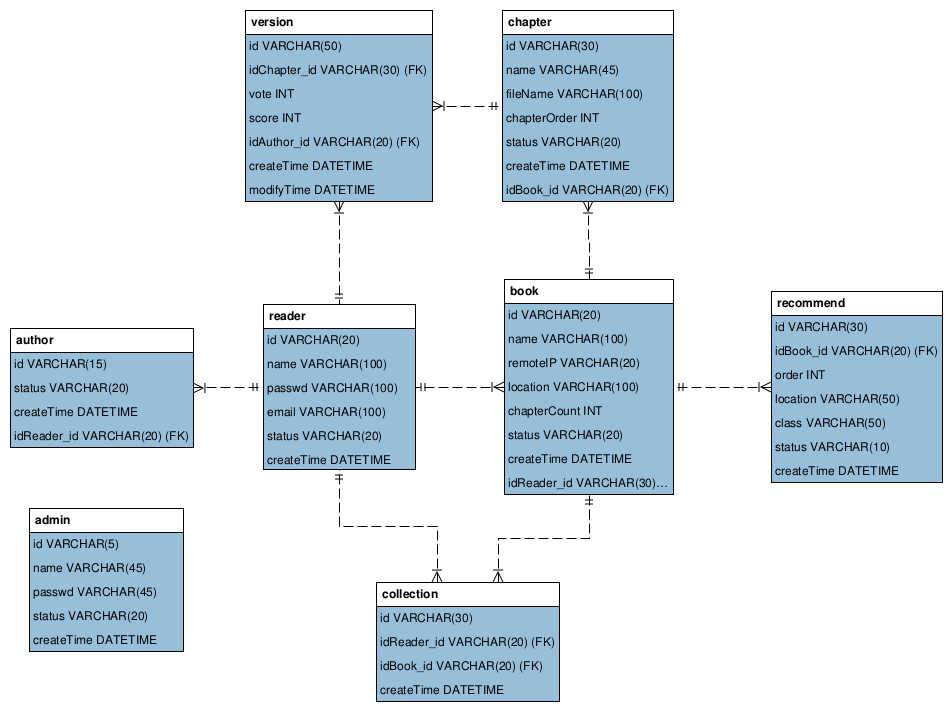
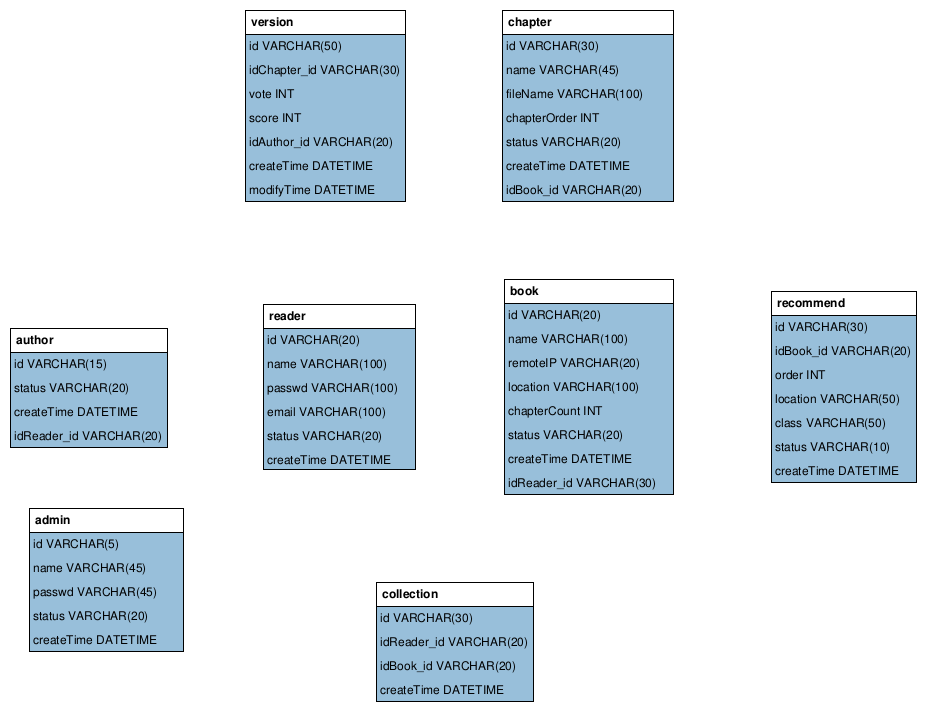
Delete foreign keys of database

diff --git a/doc/ganttChart.html b/doc/ganttChart.html
@@ -118,7 +118,7 @@
       Readers collect books and delete collections    :done,    dev2Ph5,  2017-10-09,     1d
       Author and Administrator manages books          :done,    dev2Ph6,  after dev2Ph5,  2d
       Reader modify userName and password             :done,    dev2Ph7,  after dev2Ph5,  1d
-      Delete foreign keys of database                 :active,  dev2Ph8,  after dev2Ph7,  1d
+      Delete foreign keys of database                 :done,    dev2Ph8,  after dev2Ph7,  1d
       Readers vote for a chapter of one version       :active,  dev2Ph9,  after dev2Ph7,  1d
       Administrator manages readers and authors       :active,  dev2Ph10, after dev2Ph8,  5d
       Administrator registers and logins              :active,  dev2Ph11, after dev2Ph9,  4d

diff --git a/templates/collection/addCollectionInter.html b/templates/collection/addCollectionInter.html
@@ -5,7 +5,7 @@
     <title>收藏本書</title>
   </head>
   <script src="/static/js/jquery-3.2.1.min.js" type="text/javascript"></script>
-  <script src="/static/templatesJs/content/addCollection.js" type="text/javascript"></script>
+  <script src="/static/templatesJs/collection/addCollection.js" type="text/javascript"></script>
   <script type="text/javascript">
     $('document').ready(function(){
       var idBook = $("#idBook").val();

diff --git a/templates/chapter/bookChapter.html b/templates/chapter/bookChapter.html
@@ -67,4 +67,4 @@
 <script src="/static/templatesJs/reader/backgroundImg.js" type="text/javascript"></script>
 <script src="/static/templatesJs/chapter/bookChapter.js" type="text/javascript"></script>
 
-<script src="/static/templatesJs/chapter/addCollection.js" type="text/javascript"></script>
+<script src="/static/templatesJs/collection/addCollection.js" type="text/javascript"></script>

diff --git a/static/templatesJs/collection/addCollection.js b/static/templatesJs/collection/addCollection.js
@@ -42,8 +42,6 @@ function goToAddCollection() {
       window.location.href = resp.message
     }
     else if (resp.status == "success2") {
-      // window.location.href = resp.message
-      console.log("success2");
       addCollection(resp.message);
     }
     else if (resp.status == "fail") {

diff --git a/collection/view/baseView.py b/collection/view/baseView.py
@@ -12,5 +12,4 @@ def gotoPages(request, pageName):
         return 'collection/' + pageName + '.html'
 
 def addCollectionInter(request):
-    print request.GET['idBook']
     return render(request,  gotoPages(request, "addCollectionInter"), {"idBook" : request.GET['idBook']})

diff --git a/doc/progress.md b/doc/progress.md
@@ -30,7 +30,7 @@ ModifyTime :  2017-07-20
 + [x] 11. ~~Reader modify userName and password.(2017-10-10)~~
 + [x] 12. ~~Reader can collect their favorite books and delete collections.(2017-10-11)~~
 + [x] 13. ~~Author and Administrator manages books.(2017-10-11)~~
-+ [ ] 14. Delete foreign keys of database.(2017-10-12)                
++ [x] 14. ~~Delete foreign keys of database.(2017-10-11)~~                
 + [ ] 15. Readers vote for a chapter of one version.(2017-10-14)                
 + [ ] 16. Administrator manages readers and authors.(2017-10-15)      
 + [ ] 17. Administrator registers and logins.(2017-10-15)          
